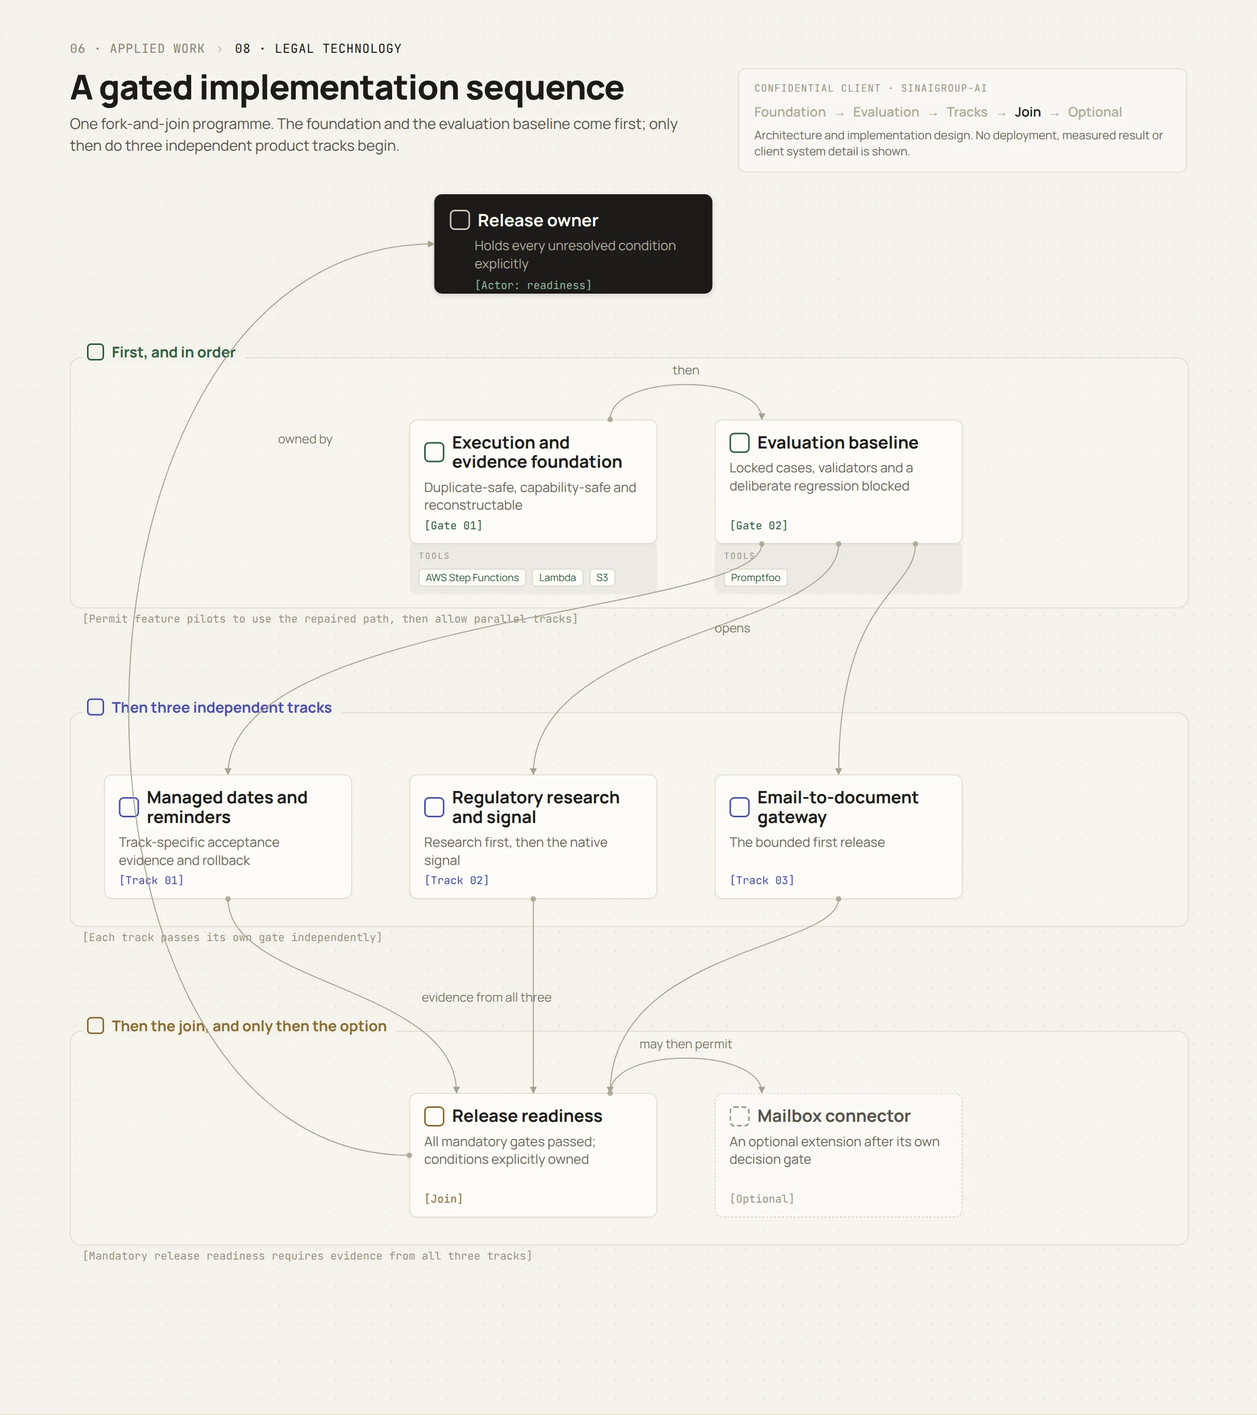
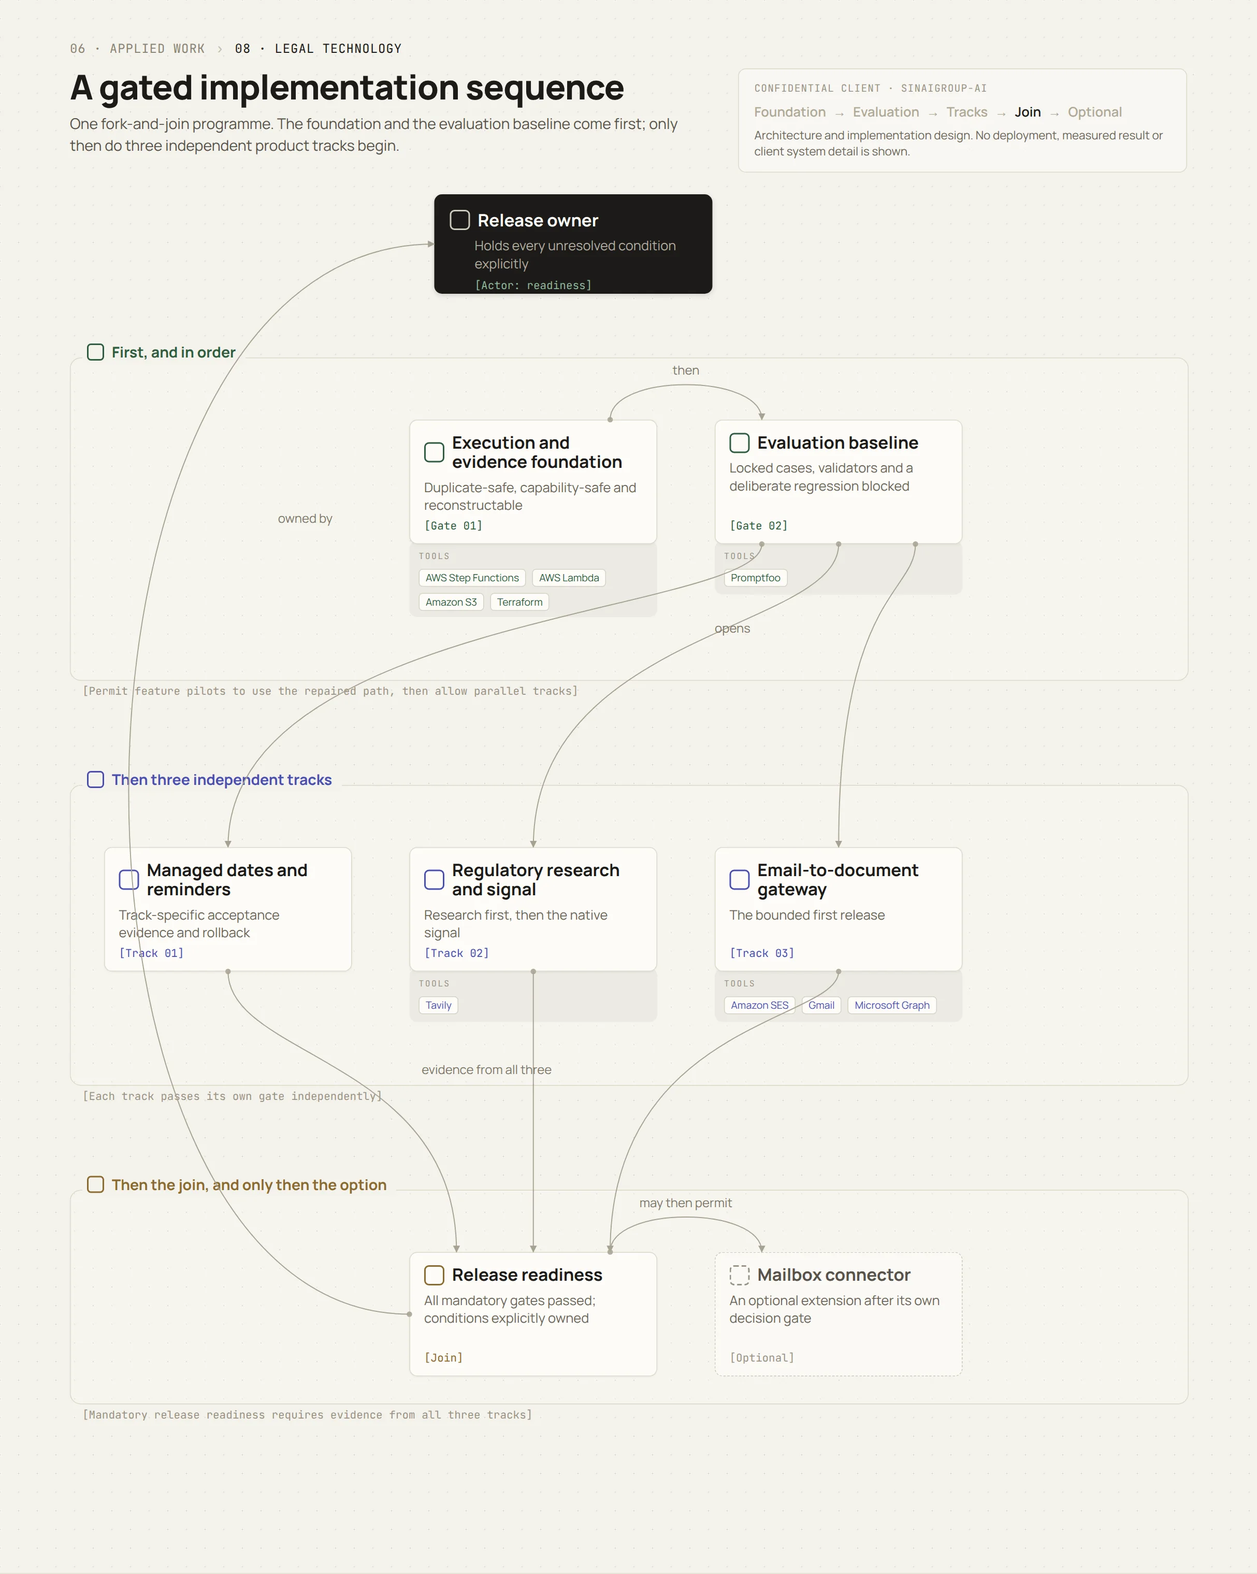
Applied work: put the whole platform stack into the legal-operations boards
Your call: publish the platform layer of the technology inventory, keep the
client anonymous. The boards now carry 44 distinct technologies in 91 TOOLS
chips, and the client name still appears 0 times.

New eighth board, par-technology - section 10, preserved versus proposed -
carries the bulk of it:

  preserved  execution      Step Functions, Lambda, S3, SQS, EventBridge
  preserved  services       ECS Fargate, ECR, Load Balancer, API Gateway, Amplify
  preserved  data           Supabase, PostgreSQL, Row-Level Security, pgvector, JWKS
  preserved  models         Bedrock, Claude Haiku / Sonnet / Opus, Cohere Embed v4
  preserved  application    NestJS, React, Vite, Express, MCP, Vercel AI SDK
  preserved  operations     Terraform, CloudWatch, SNS, SSM
  preserved  extraction     Textract, PyMuPDF, LibreOffice
  preserved  runtimes       TypeScript, Python, Node.js
  preserved  outbound mail  Amazon SES
  proposed   evaluation     Promptfoo
  proposed   deadlines      EventBridge Scheduler
  proposed   regulatory     Tavily
  proposed   email          Gmail, Microsoft Graph (candidates)

The other seven boards carry the technologies of their own step. Row 10 of the
copy and the technology tags are updated to match.

Deliberately not published, all of it instance-level or irrelevant: ACM, IAM
and OIDC role names, the Terraform lock table, Cloudflare, Astro, PostHog,
Octokit, react-email, pnpm, Turborepo, esbuild, tsup, uv, Vitest, GitHub
[…]

diff --git a/index.html b/index.html
@@ -1906,7 +1906,7 @@
 <div><dt>Scope</dt><dd>AI assurance, deadline architecture, regulatory intelligence, product-signal semantics, email ingestion and staged delivery governance</dd></div>
 </dl>
 <ul class="cs-tags">
-<li>AWS</li><li>Amazon Bedrock</li><li>Promptfoo</li><li>AI evaluation</li><li>AI governance</li>
+<li>AWS</li><li>Amazon Bedrock</li><li>Supabase</li><li>Promptfoo</li><li>Terraform</li><li>AI governance</li>
 </ul>
 <ul class="cs-jump" aria-label="Sections of this case">
 <li><a href="#par-challenge">The challenge</a></li>
@@ -1933,7 +1933,7 @@
 <p>The platform already had a sophisticated document-analysis pipeline. The unresolved issue was not whether the models could produce useful findings. It was whether a material finding could be trusted, reproduced and safely acted upon after the prompt, model, document set or legal context changed.</p>
 <p>The most dangerous failure is compositional: each individual part can look reasonable while the combined result is wrong. A system may identify the correct obligation, assign it to the wrong party, miss a later amendment and still present a confident positive status. The architecture therefore had to govern the chain, not only improve isolated model outputs.</p>
 <p><span class="cs-label">The requirement:</span> govern the chain, so that a finding carries its evidence, its uncertainty and its permitted consequence.</p>
-<figure class="cs-diagram"><figcaption><span>Five requests, one foundation</span><a href="diagrams/par-five-requests.webp" target="_blank" rel="noopener">Open full size &#8599;</a></figcaption><a class="cs-diagram-view" href="diagrams/par-five-requests.webp" target="_blank" rel="noopener" aria-label="Open full-size diagram: Five requests, one foundation"><img src="diagrams/par-five-requests.webp" width="2427" height="2559" loading="lazy" decoding="async" alt="Five product requests - AI quality, material dates, regulatory research, the traffic-light signal and email integration - all resting on one shared assurance foundation of version binding, evidence, evaluation and human authority."></a></figure>
+<figure class="cs-diagram"><figcaption><span>Five requests, one foundation</span><a href="diagrams/par-five-requests.webp" target="_blank" rel="noopener">Open full size &#8599;</a></figcaption><a class="cs-diagram-view" href="diagrams/par-five-requests.webp" target="_blank" rel="noopener" aria-label="Open full-size diagram: Five requests, one foundation"><img src="diagrams/par-five-requests.webp" width="2427" height="2924" loading="lazy" decoding="async" alt="Five product requests - AI quality, material dates, regulatory research, the traffic-light signal and email integration - all resting on one shared assurance foundation of version binding, evidence, evaluation and human authority."></a></figure>
 </div>
 </article>
 
@@ -1945,7 +1945,7 @@
 <p>The audit did not support a platform rewrite. The existing state-level decomposition, S3-backed source orientation, quotation fields, deterministic quote-offset resolution, structured analysis slices, human review points and layered authorisation were useful foundations. Replacing Step Functions merely to obtain an evaluation framework would have introduced another large variable without supplying ground truth, version binding or release policy.</p>
 <p>The architectural decision was to add a governed control layer around the existing engine: one authoritative, idempotent path for creating an analysis run; an immutable manifest binding the source object, code artefact, rendered prompt, schema, taxonomy, model configuration, guardrail and policy before execution; server-side human gates that expose only opaque identifiers and preserve the candidate and the reviewer decision separately; append-only candidate, decision and slice revisions with explicit approved pointers; evidence-propagation rules that prevent unsupported quotations from gaining downstream authority; and a durable assurance ledger that survives the retention window of operational orchestration history.</p>
 <p class="cs-quote">Source evidence &rarr; Version-bound execution &rarr; AI candidates &rarr; Validation &rarr; Human authority &rarr; Scoped action &rarr; Outcome and learning</p>
-<figure class="cs-diagram"><figcaption><span>The governed control layer</span><a href="diagrams/par-control-layer.webp" target="_blank" rel="noopener">Open full size &#8599;</a></figcaption><a class="cs-diagram-view" href="diagrams/par-control-layer.webp" target="_blank" rel="noopener" aria-label="Open full-size diagram: The governed control layer"><img src="diagrams/par-control-layer.webp" width="2427" height="2187" loading="lazy" decoding="async" alt="Source evidence is bound into a version-bound execution manifest, which produces AI candidates; validation authorises a scoped action and records the outcome, with human authority approving between the two."></a></figure>
+<figure class="cs-diagram"><figcaption><span>The governed control layer</span><a href="diagrams/par-control-layer.webp" target="_blank" rel="noopener">Open full size &#8599;</a></figcaption><a class="cs-diagram-view" href="diagrams/par-control-layer.webp" target="_blank" rel="noopener" aria-label="Open full-size diagram: The governed control layer"><img src="diagrams/par-control-layer.webp" width="2427" height="2466" loading="lazy" decoding="async" alt="Source evidence is bound into a version-bound execution manifest, which produces AI candidates; validation authorises a scoped action and records the outcome, with human authority approving between the two."></a></figure>
 </div>
 </article>
 
@@ -1966,7 +1966,7 @@
 <p class="cs-question">What must happen before &ldquo;within 30 days&rdquo; becomes a reminder?</p>
 <p>The design separates six objects that are often collapsed into one field: the literal temporal mention, the business event that starts the clock, the governing temporal rule, the obligation and responsible party, the approved deadline revision, and the notification intent with its delivery attempts.</p>
 <p>The model identifies evidence and proposes a rule. Deterministic code applies the supported calendar, timezone, inclusion and roll-forward rules. A qualified reviewer approves material or ambiguous interpretations. The database commits the deadline revision and notification intent together through a transactional outbox. EventBridge Scheduler acts only as the clock; the governed deadline ledger remains the source of truth. Amendments and cancellations create new revisions, and a stale scheduled event becomes a no-op rather than an incorrect reminder.</p>
-<figure class="cs-diagram"><figcaption><span>From a mention to a deadline</span><a href="diagrams/par-deadline.webp" target="_blank" rel="noopener">Open full size &#8599;</a></figcaption><a class="cs-diagram-view" href="diagrams/par-deadline.webp" target="_blank" rel="noopener" aria-label="Open full-size diagram: From a date mention to a managed deadline"><img src="diagrams/par-deadline.webp" width="2427" height="2117" loading="lazy" decoding="async" alt="A temporal mention, the trigger event that starts the clock and the governing temporal rule are computed into an approved deadline revision, a notification intent committed in the same transaction, and delivery evidence."></a></figure>
+<figure class="cs-diagram"><figcaption><span>From a mention to a deadline</span><a href="diagrams/par-deadline.webp" target="_blank" rel="noopener">Open full size &#8599;</a></figcaption><a class="cs-diagram-view" href="diagrams/par-deadline.webp" target="_blank" rel="noopener" aria-label="Open full-size diagram: From a date mention to a managed deadline"><img src="diagrams/par-deadline.webp" width="2427" height="2256" loading="lazy" decoding="async" alt="A temporal mention, the trigger event that starts the clock and the governing temporal rule are computed into an approved deadline revision, a notification intent committed in the same transaction, and delivery evidence."></a></figure>
 </div>
 </article>
 
@@ -1978,7 +1978,7 @@
 <p>The proposed regulatory workflow is a bounded research and change-detection service, not an autonomous legal adviser. It queries official APIs and source-specific adapters first. Search providers such as Tavily may help discover likely official pages, but their ranking, summary or extracted answer can never become legal authority.</p>
 <p>Every material claim links to a versioned source snapshot, exact provision evidence, instrument status and effective dates. Applicability is represented as reviewable predicates: which organisational facts are true, false or unknown, and which evidence supports each one. A qualified reviewer may approve, reject, narrow or defer the claim. Freshness policies then determine when the claim must be checked again or downgraded.</p>
 <p>This structure makes uncertainty useful. Instead of hiding a missing fact inside prose, the product can ask a targeted question, retain the unknown state and recompute after the answer arrives.</p>
-<figure class="cs-diagram"><figcaption><span>Where authority comes from</span><a href="diagrams/par-regulatory.webp" target="_blank" rel="noopener">Open full size &#8599;</a></figcaption><a class="cs-diagram-view" href="diagrams/par-regulatory.webp" target="_blank" rel="noopener" aria-label="Open full-size diagram: Source-grounded regulatory intelligence"><img src="diagrams/par-regulatory.webp" width="2427" height="2117" loading="lazy" decoding="async" alt="An official source is captured as a version snapshot citing exact provision evidence, tested against reviewable applicability predicates, decided by a qualified reviewer and governed by a freshness policy."></a></figure>
+<figure class="cs-diagram"><figcaption><span>Where authority comes from</span><a href="diagrams/par-regulatory.webp" target="_blank" rel="noopener">Open full size &#8599;</a></figcaption><a class="cs-diagram-view" href="diagrams/par-regulatory.webp" target="_blank" rel="noopener" aria-label="Open full-size diagram: Source-grounded regulatory intelligence"><img src="diagrams/par-regulatory.webp" width="2427" height="2379" loading="lazy" decoding="async" alt="An official source is captured as a version snapshot citing exact provision evidence, tested against reviewable applicability predicates, decided by a qualified reviewer and governed by a freshness policy."></a></figure>
 </div>
 </article>
 
@@ -1990,7 +1990,7 @@
 <p>The traffic light is designed as a deterministic regulatory signal service, not a model prediction. It derives a scoped result from approved findings, evidence completeness, freshness, uncertainty, review state and a versioned policy. The colour is a presentation of that state; it is not itself authority to act.</p>
 <p>Every signal carries a reason, scope, evidence basis, unknowns, expiry, history and next action. Green expires. Missing or stale coverage becomes Grey or Yellow. No client may infer a permission from colour; permitted actions are authorised separately on the server.</p>
 <p class="cs-quote">Green is a statement about the checks that ran, not a statement that the organisation is compliant.</p>
-<figure class="cs-diagram"><figcaption><span>What each state may mean</span><a href="diagrams/par-signal.webp" target="_blank" rel="noopener">Open full size &#8599;</a></figcaption><a class="cs-diagram-view" href="diagrams/par-signal.webp" target="_blank" rel="noopener" aria-label="Open full-size diagram: A signal that cannot invent permission"><img src="diagrams/par-signal.webp" width="2427" height="2445" loading="lazy" decoding="async" alt="Green, Yellow, Red and Grey with their permitted meanings, and the three things no colour may ever mean: legal compliance, green by omission, and permission to act."></a></figure>
+<figure class="cs-diagram"><figcaption><span>What each state may mean</span><a href="diagrams/par-signal.webp" target="_blank" rel="noopener">Open full size &#8599;</a></figcaption><a class="cs-diagram-view" href="diagrams/par-signal.webp" target="_blank" rel="noopener" aria-label="Open full-size diagram: A signal that cannot invent permission"><img src="diagrams/par-signal.webp" width="2427" height="2612" loading="lazy" decoding="async" alt="Green, Yellow, Red and Grey with their permitted meanings, and the three things no colour may ever mean: legal compliance, green by omission, and permission to act."></a></figure>
 </div>
 </article>
 
@@ -2001,7 +2001,7 @@
 <p class="cs-question">Why is a forwarded attachment not the same product as continuous mailbox access?</p>
 <p>The first release is a narrow email-to-document gateway. A tenant-specific opaque address receives a deliberately forwarded message. Original MIME bytes enter quarantine before parsing; attachments are limited, type-checked, scanned, hashed and routed into the existing document pipeline only after tenant resolution and security controls succeed. The user receives an auditable receipt for accepted, duplicate, unsupported, quarantined and failed items. Email-body instructions cannot call tools or authorise an external action.</p>
 <p>Continuous mailbox monitoring is a separate go or no-go decision. If the gateway demonstrates value, one mailbox connector may enter a read-only shadow pilot for one mailbox class and one defined question. It requires least-privilege OAuth, subscription renewal, a durable cursor, missed-notification reconciliation, immutable evidence, retention rules and prompt-injection controls. Send, move, delete and mailbox-mutation authority remain outside the initial scope.</p>
-<figure class="cs-diagram"><figcaption><span>Two releases, one boundary</span><a href="diagrams/par-email.webp" target="_blank" rel="noopener">Open full size &#8599;</a></figcaption><a class="cs-diagram-view" href="diagrams/par-email.webp" target="_blank" rel="noopener" aria-label="Open full-size diagram: Email integration in two releases"><img src="diagrams/par-email.webp" width="2427" height="2117" loading="lazy" decoding="async" alt="A forwarded message is quarantined and checked before entering the existing document pipeline; a read-only mailbox connector and any send authority remain conditional on a separate decision gate."></a></figure>
+<figure class="cs-diagram"><figcaption><span>Two releases, one boundary</span><a href="diagrams/par-email.webp" target="_blank" rel="noopener">Open full size &#8599;</a></figcaption><a class="cs-diagram-view" href="diagrams/par-email.webp" target="_blank" rel="noopener" aria-label="Open full-size diagram: Email integration in two releases"><img src="diagrams/par-email.webp" width="2427" height="2379" loading="lazy" decoding="async" alt="A forwarded message is quarantined and checked before entering the existing document pipeline; a read-only mailbox connector and any send authority remain conditional on a separate decision gate."></a></figure>
 </div>
 </article>
 
@@ -2011,7 +2011,7 @@
 <h3 class="rtitle">A gated implementation sequence</h3>
 <p class="cs-question">How does the programme prevent schedule pressure from becoming authority?</p>
 <p>The six architecture blocks become one fork-and-join programme. The execution and evidence foundation comes first, followed by the common evaluation baseline. Only then do three independent product tracks begin: managed dates and reminders; regulatory research followed by the native signal; and the email-to-document gateway. Mandatory release readiness requires evidence from all three tracks. The mailbox connector remains an optional extension after its own decision gate.</p>
-<figure class="cs-diagram"><figcaption><span>Foundation, tracks, join</span><a href="diagrams/par-delivery.webp" target="_blank" rel="noopener">Open full size &#8599;</a></figcaption><a class="cs-diagram-view" href="diagrams/par-delivery.webp" target="_blank" rel="noopener" aria-label="Open full-size diagram: A gated implementation sequence"><img src="diagrams/par-delivery.webp" width="2427" height="2732" loading="lazy" decoding="async" alt="The execution and evidence foundation and the evaluation baseline come first, then three independent product tracks, then a mandatory release-readiness join, with the mailbox connector as an optional extension."></a></figure>
+<figure class="cs-diagram"><figcaption><span>Foundation, tracks, join</span><a href="diagrams/par-delivery.webp" target="_blank" rel="noopener">Open full size &#8599;</a></figcaption><a class="cs-diagram-view" href="diagrams/par-delivery.webp" target="_blank" rel="noopener" aria-label="Open full-size diagram: A gated implementation sequence"><img src="diagrams/par-delivery.webp" width="2427" height="3038" loading="lazy" decoding="async" alt="The execution and evidence foundation and the evaluation baseline come first, then three independent product tracks, then a mandatory release-readiness join, with the mailbox connector as an optional extension."></a></figure>
 </div>
 </article>
 
@@ -2037,13 +2037,17 @@
 <h3 class="rtitle">Technology foundation</h3>
 <p class="cs-question">Which components already exist, and which belong to the proposed control layer?</p>
 <div class="cs-mgrid">
-<section><h4>Execution</h4><p><em>Preserved:</em> AWS Step Functions, Lambda and S3-backed source artefacts.</p><p><em>Proposed:</em> a single run-creation service, a server-side gate service, immutable manifests and an assurance ledger.</p></section>
-<section><h4>Models</h4><p><em>Preserved:</em> Amazon Bedrock model stages and structured analysis slices.</p><p><em>Proposed:</em> version-bound evaluation, deterministic validators, calibrated routing and legal adjudication.</p></section>
+<section><h4>Execution</h4><p><em>Preserved:</em> AWS Step Functions, AWS Lambda, Amazon S3, Amazon SQS and Amazon EventBridge.</p><p><em>Proposed:</em> a single run-creation service, a server-side gate service, immutable manifests and an assurance ledger.</p></section>
+<section><h4>Services</h4><p><em>Preserved:</em> Amazon ECS Fargate and ECR behind a load balancer and Amazon API Gateway, with AWS Amplify hosting the client.</p><p><em>Proposed:</em> nothing &mdash; the serving topology is left alone.</p></section>
+<section><h4>Data</h4><p><em>Preserved:</em> Supabase on PostgreSQL with row-level security, pgvector for retrieval and JWKS for token verification.</p><p><em>Proposed:</em> append-only candidate, decision and slice revisions with explicit approved pointers.</p></section>
+<section><h4>Models</h4><p><em>Preserved:</em> Amazon Bedrock as the sole backend, deliberately tiered &mdash; Claude Haiku for cheap structured steps, Sonnet for analysis, Opus for negotiation &mdash; with Cohere Embed v4 for retrieval.</p><p><em>Proposed:</em> version-bound evaluation, deterministic validators, calibrated routing and legal adjudication.</p></section>
+<section><h4>Application</h4><p><em>Preserved:</em> NestJS, React and Vite, an Express service exposing the Model Context Protocol, and the Vercel AI SDK for assistant streaming.</p><p><em>Proposed:</em> nothing &mdash; the application surface is left alone.</p></section>
+<section><h4>Ingestion</h4><p><em>Preserved:</em> Amazon Textract, PyMuPDF and LibreOffice for text extraction; TypeScript, Python and Node.js as the runtimes; Amazon SES for outbound mail.</p><p><em>Proposed:</em> a quarantined inbound gateway first; a conditional Gmail or Microsoft Graph connector later.</p></section>
 <section><h4>Evaluation</h4><p><em>Preserved:</em> stage decomposition and existing provenance fragments.</p><p><em>Proposed:</em> Promptfoo as runner only, a client-owned case library, workflow replay and regression release gates.</p></section>
-<section><h4>Deadlines</h4><p><em>Preserved:</em> extracted event candidates and timeline display.</p><p><em>Proposed:</em> a typed temporal engine, revisions, a transactional outbox, EventBridge Scheduler and delivery reconciliation.</p></section>
-<section><h4>Regulatory</h4><p><em>Preserved:</em> the organisation profile and bounded review-domain selection.</p><p><em>Proposed:</em> an official-source registry, version snapshots, a bounded research workflow, reviewed applicability and freshness monitoring.</p></section>
-<section><h4>Email</h4><p><em>Preserved:</em> the existing document pipeline and outbound transactional mail.</p><p><em>Proposed:</em> a quarantined inbound gateway first; a conditional Gmail or Microsoft Graph connector later.</p></section>
+<section><h4>Operations</h4><p><em>Preserved:</em> Terraform for all infrastructure, Amazon CloudWatch and SNS for alarms, AWS SSM for secrets.</p><p><em>Proposed:</em> an official-source registry and freshness monitoring for regulatory claims, and Amazon EventBridge Scheduler as the deadline clock.</p></section>
+
 </div>
+<figure class="cs-diagram"><figcaption><span>Preserved and proposed</span><a href="diagrams/par-technology.webp" target="_blank" rel="noopener">Open full size &#8599;</a></figcaption><a class="cs-diagram-view" href="diagrams/par-technology.webp" target="_blank" rel="noopener" aria-label="Open full-size diagram: Technology foundation"><img src="diagrams/par-technology.webp" width="2427" height="4293" loading="lazy" decoding="async" alt="The preserved platform - execution, services, data, models, application, operations, text extraction, runtimes and outbound mail - and the proposed governed extension: evaluation, deadlines, regulatory research and a conditional email connector."></a></figure>
 </div>
 </article>
 
